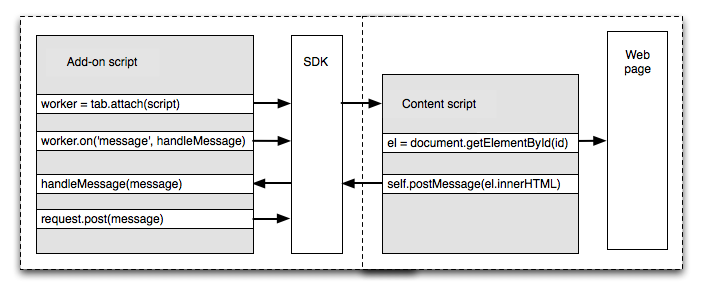
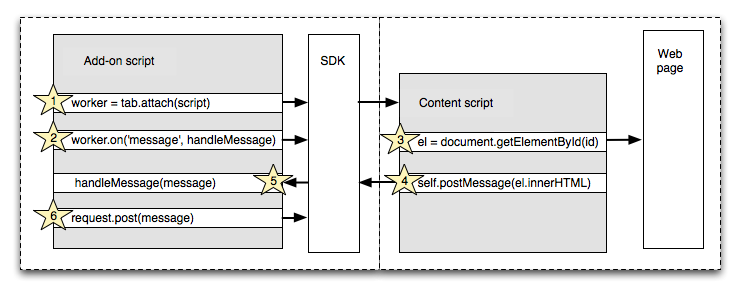
improve diagram

diff --git a/doc/dev-guide-source/addon-development/xul-migration.md b/doc/dev-guide-source/addon-development/xul-migration.md
@@ -56,15 +56,15 @@ A XUL-based add-on will need to be reorganized to respect this distinction.
 
 Suppose an add-on wants to make a cross-domain XMLHttpRequest based on some
 data extracted from a web page. In a XUL-based extension you would implement
-all this in a single script. An SDK-based add-on would need to be structured
-like this:
+all this in a single script. An SDK-based equivalent would need to be
+structured like this:
 
-* the main add-on code attaches a content script to the page, and registers
-a listener function for messages from the content script
-* the content script extracts the data from the page and sends it to the
-main add-on code in a message
-* the main add-on code receives the message and sends the request, using the
-SDK's [`request`](packages/addon-kit/docs/request.html) API
+* the main add-on code (1) attaches a content script to the page, and (2)
+registers a listener function for messages from the content script
+* the content script (3) extracts the data from the page and (4) sends
+it to the main add-on code in a message
+* the main add-on code (5) receives the message and (6) sends the request,
+using the SDK's [`request`](packages/addon-kit/docs/request.html) API
 
 <img class="image-center" src="static-files/media/xul-migration-cs.png"
 alt="Content script organization">
